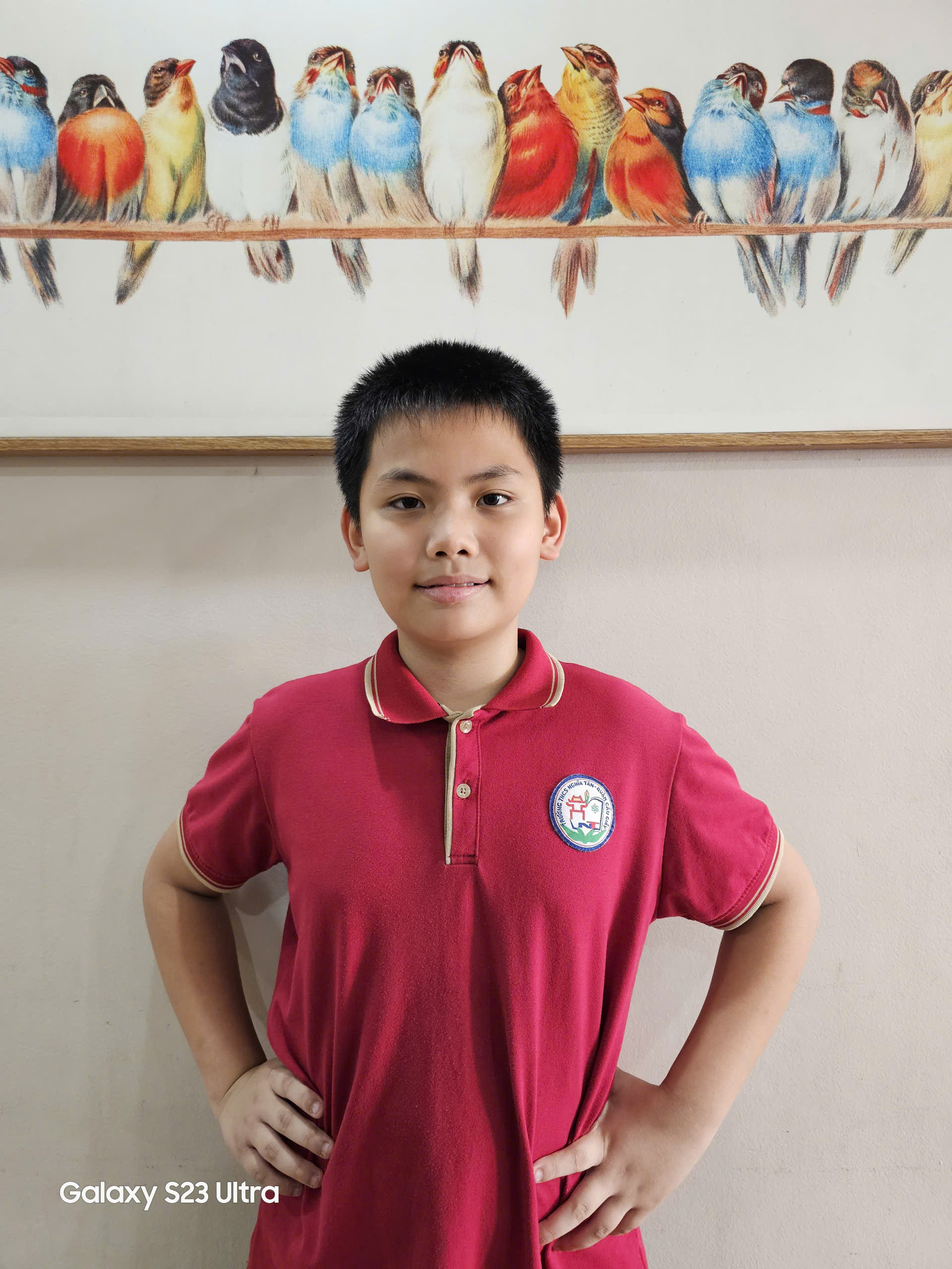
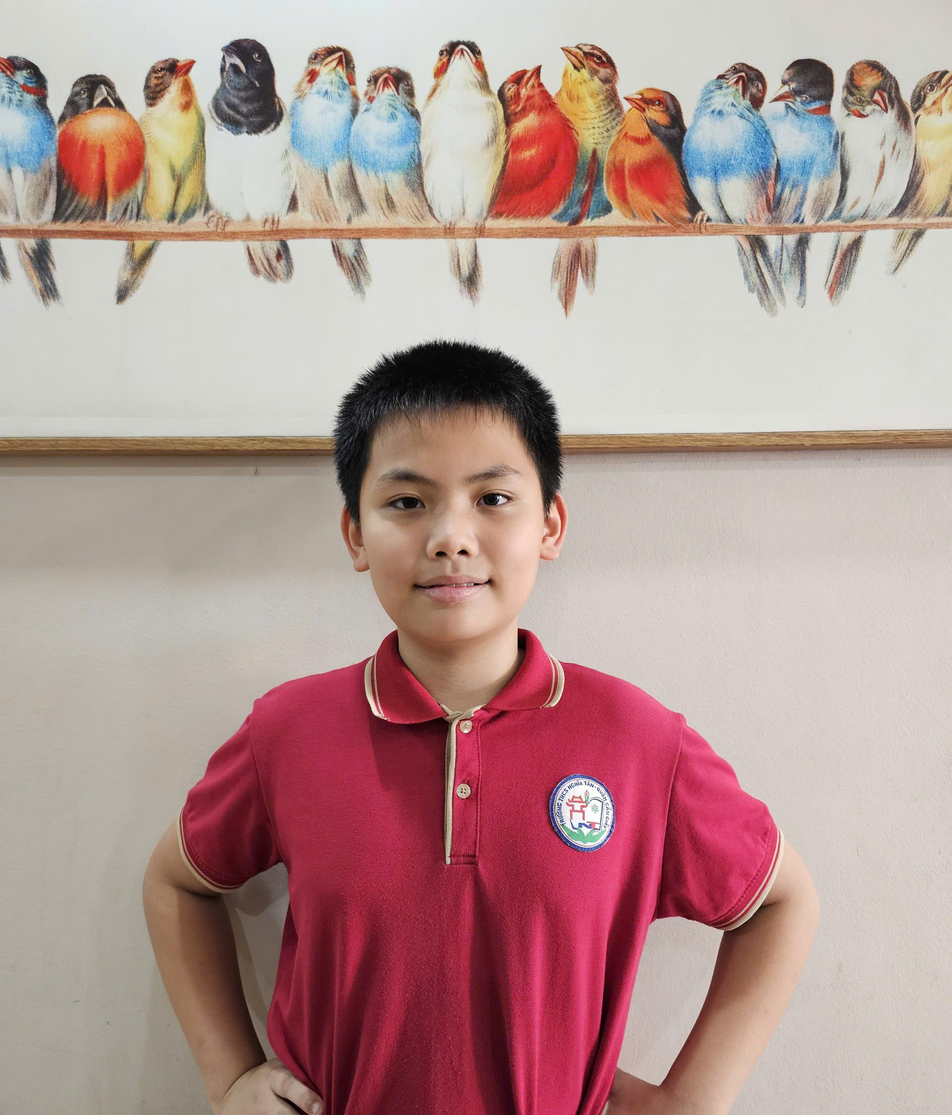
update picture

diff --git a/app.py b/app.py
@@ -65,10 +65,14 @@ if st.button("Giới Thiệu"):
         "school": "THCS Nghĩa Tân Quận Cầu Giấy",
         "image": "image/DuongMinhQuan.jpg"
     }
-    st.image(member["image"], width=400)
-    st.markdown(f"### {member['name']}")
-    st.markdown(f"**Lớp:** {member['class']}")
-    st.markdown(f"**Trường:** {member['school']}")
+    cols = st.columns([1, 3, 1])
+    with cols[1]:
+        st.markdown(f"Tác giả")
+        st.image(member["image"], width=400)
+        st.markdown(f"### {member['name']}")
+        st.markdown(f"**Lớp:** {member['class']}")
+        st.markdown(f"**Trường:** {member['school']}")
+
 
 st.write("---")
 
